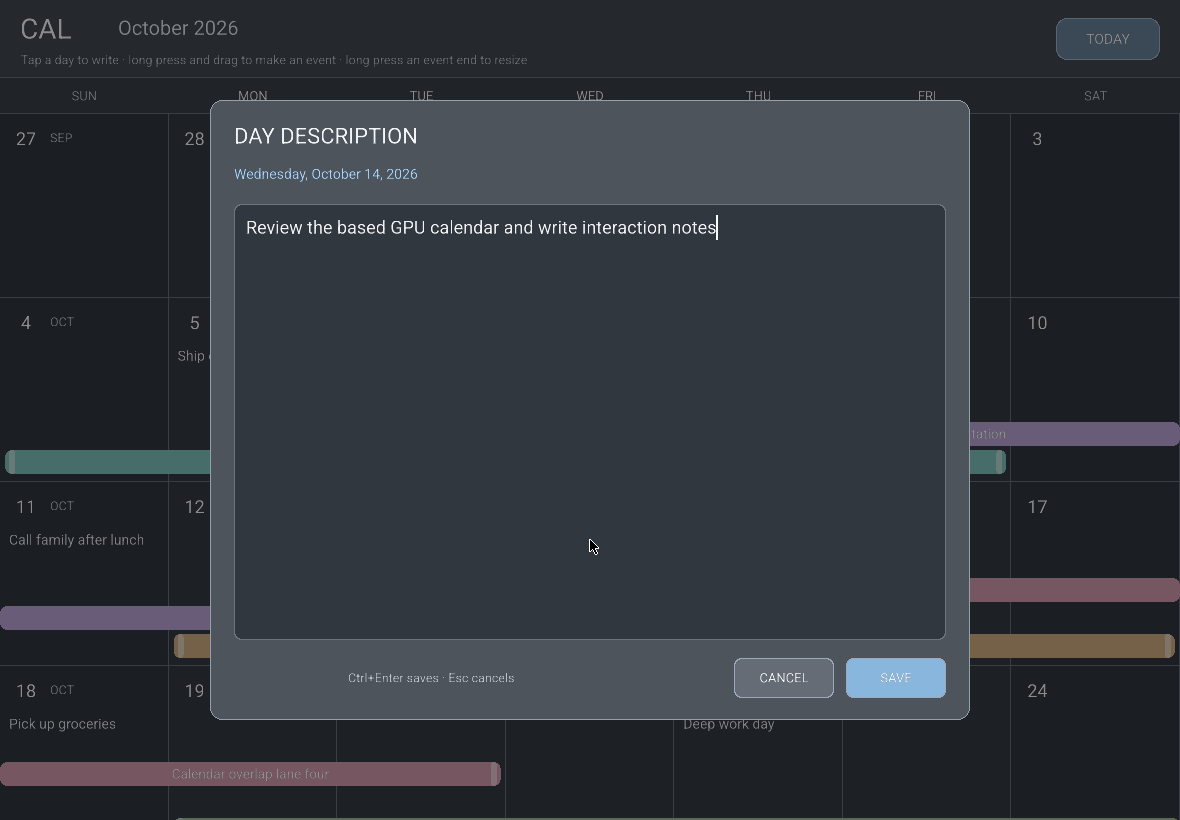
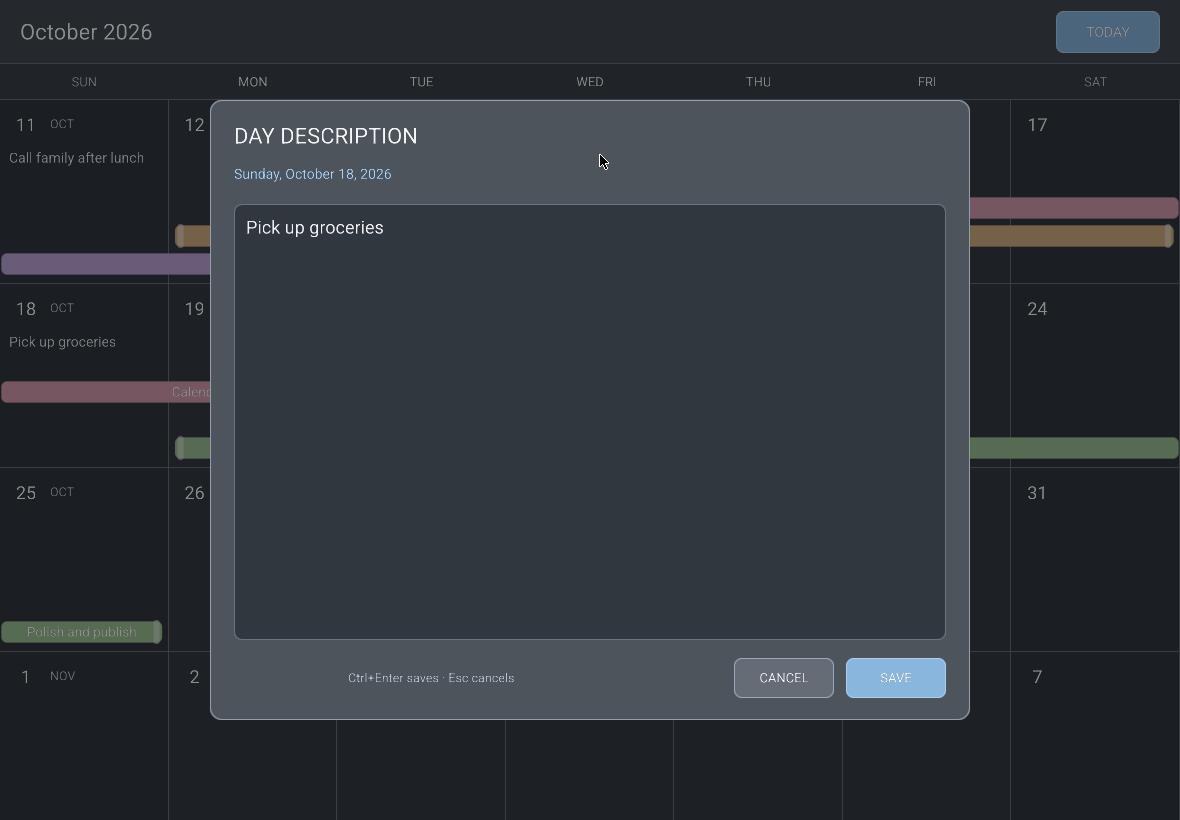
prepare 0.1.2 release

diff --git a/README.md b/README.md
@@ -13,11 +13,12 @@ A Windows-first calendar experiment built from the low-level capabilities in [`b
 - Events span inclusive date ranges and render as rounded strips along the bottom of each week.
 - Overlapping events receive stable, bottom-up lanes. The first four lanes render.
 - Type, spacing, hit areas, and editor controls scale with the Windows display scale.
+- Hover, pressed, and dragging states are visible on every interactive calendar surface.
 - Click a day or event strip to open its description editor.
-- Long-press a day, then drag and release to create an event without opening the editor.
-- Long-press either end of an event, then drag to resize it.
+- With a mouse, drag a day immediately to create an event and drag an event endpoint immediately to resize it.
+- On touch, long-press a day or endpoint before dragging.
 - Drag an endpoint past the other endpoint and release to delete the event.
-- Use the mouse wheel or trackpad to move through continuous weeks. **Today** eases back to the current date with one-pole motion; manual input stops the motion immediately.
+- Use the mouse wheel or trackpad to move through continuous weeks. **Today** eases back with the current week aligned to the top; manual input stops the motion immediately.
 
 The editor is a custom `based` widget. It stores text in a `ropey::Rope` and uses Sanscale's own layout for wrapping, hit testing, selection, caret motion, and rendering. `Ctrl+Enter` saves and `Escape` cancels.
 
@@ -48,7 +49,11 @@ The application composes only these low-level `based` services:
 - `Sanscale`
 - `Input`
 
-Every application widget receives one concrete `AppContext`, including `&mut AppModel`. The model, transaction vocabulary, interval-lane assignment, and persistence code remain platform-neutral. A later Android host can reuse them without changing calendar semantics.
+Every application widget receives one concrete `AppContext`, including `&mut AppModel`. The Windows host, calendar widget, editor widget, reusable interactive surfaces, and GPU painter are separate modules. Buttons own their hover and press state. Calendar cells, events, endpoints, and text fields use the same explicit idle, hovered, pressed, and dragging surface states.
+
+Rounded surfaces are single GPU quads. The fragment shader computes the radius, border, and antialias coverage, so controls do not depend on CPU polygon tessellation.
+
+The model, transaction vocabulary, interval-lane assignment, and persistence code remain platform-neutral. A later Android host can reuse them without changing calendar semantics.
 
 Networking and tailnet replication are intentionally not implemented in this experiment.
 
@@ -64,8 +69,8 @@ This repository pins a private `based` revision, so the build requires repositor
 The release script writes:
 
 ```text
-dist/cal-based-0.1.1-windows-x64.exe
-dist/cal-based-0.1.1-windows-x64.exe.sha256
+dist/cal-based-0.1.2-windows-x64.exe
+dist/cal-based-0.1.2-windows-x64.exe.sha256
 ```
 
 Rust checks use the managed Cargo binary, Nextest for behavioral tests, and `cargo xwin` for the Windows target. Clippy is not part of this project workflow.

diff --git a/docs/acceptance.md b/docs/acceptance.md
@@ -1,11 +1,10 @@
 # Acceptance
 
-Accepted on October 14, 2026.
+Accepted on October 15, 2026.
 
-## Automated checks
+## Relevant checks
 
-- Six platform-neutral model tests pass through Nextest.
-- The library passes the native compiler check.
+- The model was not changed, so the model test suite was not rerun for this UI-only pass.
 - The application passes `cargo xwin check` for `x86_64-pc-windows-msvc`.
 - The optimized Windows build produces a valid x64 PE executable.
 
@@ -18,16 +17,18 @@ Verified:
 - launch, first frame, resizing, and continuous week rendering;
 - Sunday-first columns and day descriptions;
 - larger calendar and editor type at 100% scale and simulated 200% Windows display scale;
-- rounded event strips, endpoint handles, Today button, editor panel, and editor controls;
+- shader-antialiased rounded event strips, endpoint handles, Today button, editor panel, and editor controls;
+- visible idle, hover, pressed, and dragging states for calendar and editor interactions;
+- pointer cursor changes for links, text, day dragging, active dragging, and endpoint resizing;
 - deterministic bottom-up event lanes and four-lane rendering;
 - day editor rendering, keyboard replacement, save, and JSON persistence;
 - event editor rendering, keyboard replacement, save, and JSON persistence;
-- long-press day drag with a live event preview;
+- mouse day dragging enters the drag state after normal pointer slop with no hold delay;
+- mouse endpoint resizing enters the drag state after normal pointer slop with no hold delay;
+- touch retains long-press promotion at the gesture layer;
 - release creates the inclusive event range without opening the editor;
-- long-press endpoint drag updates the live range preview;
-- crossing the fixed endpoint deletes the event on release;
-- Today navigation produces distinct in-flight frames, settles on the current week, and stops on manual wheel input;
-- scaled long-press event creation still persists the selected inclusive date range;
+- endpoint dragging updates the live range preview and crossing the fixed endpoint deletes the event;
+- Today navigation produces distinct in-flight frames, aligns the current week at the top, and stops on manual wheel input;
 - the final persisted file remains readable after each operation.
 
 The Wine host emitted software-display EGL warnings because the headless X server had no accelerated DRI device. Rendering and interaction still completed correctly.
